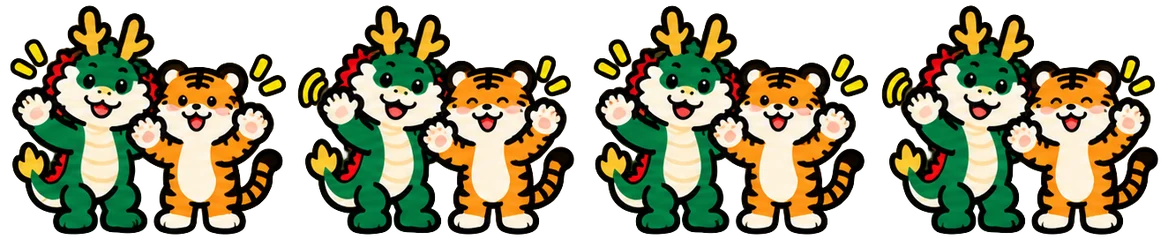
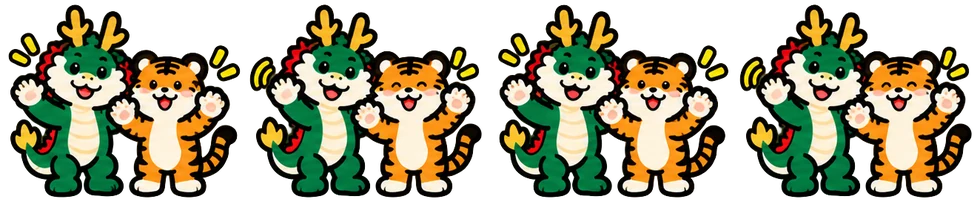
fix(v9): same mascot size and feet line in every state
The strips were each fitted to a fixed height including decorations, so
the pair shrank when a shuttlecock or Z's sat above them, and the mascot
box height changed per state, moving the date and the whole hero.

- v9-mascot-sprite.py: --body scales every strip so the dragon + tiger
  themselves are 96px tall on page; prints feet gap and body centre.
- All five strips regenerated with --body 192.
- Mascot sits in a fixed 136x100 box: feet on the bottom edge, pair
  centred; shuttlecocks / Z's / motion lines rise out of the box, under
  the header row. The hero no longer changes height between states.

Claude-Session: https://claude.ai/code/session_01Wz7TtRCPp6Frv6s2wr4fpx

diff --git a/src/components/v9/V9Mascot.tsx b/src/components/v9/V9Mascot.tsx
@@ -185,35 +185,46 @@ export function V9Mascot({ mood = "happy", size = 112 }: { mood?: V9MascotMood; 
 // made by scripts/v9-mascot-sprite.py, played with CSS steps(). The CSS/SVG
 // duo above shows until the strip has loaded; with reduced motion only the
 // first frame shows.
+//
+// Every strip is scaled so the dragon + tiger are the same height (96px) in
+// every state. The art sits in a fixed box with the pair's feet on its
+// bottom edge and the pair centred; shuttlecocks, Z's and motion lines are
+// allowed to rise out of the box. width/height/feet/centre are the
+// script's output (on-page px).
+const MASCOT_BOX = { width: 136, height: 100 };
+
 const SPRITES = {
   // 正取: high five + jump, 6 frames.
-  confirmed: { frames: 6, width: 106, height: 120, duration: 1.2 },
+  confirmed: { frames: 6, width: 149.5, height: 169, feet: 2.7, centre: 76.6, duration: 1.2 },
   // 尚未報名: beckoning wave, frames 1-2-3-2 of the sheet.
-  open: { frames: 4, width: 130, height: 104, duration: 1.2 },
+  open: { frames: 4, width: 127, height: 101, feet: 2.4, centre: 59.7, duration: 1.2 },
   // 備取: sitting with a sweat drop, blink on frame 5; the eyes barely move
   // at this size, so a slow CSS sway adds the fidgety waiting feel.
   // The number card is drawn blank so one strip serves every rank; the
   // real 備取 position is laid over it (card centre in % of the frame).
   waiting: {
     frames: 6,
-    width: 122,
-    height: 100,
+    width: 124.5,
+    height: 102.5,
+    feet: 2.1,
+    centre: 61.6,
     duration: 2.4,
     sway: true,
-    badgeAt: { x: 35.3, y: 60.8 },
+    badgeAt: { x: 34.5, y: 60.7 },
   },
-  // 已請假: asleep together, Z's float up; taller box because the Z's rise
-  // well above the heads.
-  leave: { frames: 6, width: 102, height: 132, duration: 3 },
+  // 已請假: asleep together, Z's float up.
+  leave: { frames: 6, width: 124, height: 160, feet: 2.1, centre: 62.6, duration: 3 },
   // 未登入: waving hello, frames 1-2-6-2 of the sheet (3-5 changed pose /
   // drifted sideways).
-  guest: { frames: 4, width: 127, height: 104, duration: 1.4 },
+  guest: { frames: 4, width: 122.5, height: 101, feet: 2.2, centre: 61.9, duration: 1.4 },
 } as const satisfies Record<
   string,
   {
     frames: number;
     width: number;
     height: number;
+    feet: number;
+    centre: number;
     duration: number;
     sway?: boolean;
     badgeAt?: { x: number; y: number };
@@ -250,9 +261,17 @@ export function V9MascotArt({
     };
   }, [src]);
 
-  if (!sprite || loadedSrc !== src) return <V9Mascot mood={mood} size={size} />;
+  if (!sprite || loadedSrc !== src) {
+    return (
+      <span className="v9-mascot-frame" style={MASCOT_BOX}>
+        <span className="v9-mascot-fallback">
+          <V9Mascot mood={mood} size={size} />
+        </span>
+      </span>
+    );
+  }
   const config = SPRITES[sprite];
-  const { frames, width, height, duration } = config;
+  const { frames, width, height, feet, centre, duration } = config;
   const strip = (
     <span
       key={sprite}
@@ -273,13 +292,18 @@ export function V9MascotArt({
   const sway = "sway" in config && config.sway;
   const badgeAt = "badgeAt" in config ? config.badgeAt : null;
   return (
-    <span className={`v9-sprite-box${sway ? " is-sway" : ""}`}>
-      {strip}
-      {badge && badgeAt ? (
-        <span className="v9-sprite-badge" style={{ left: `${badgeAt.x}%`, top: `${badgeAt.y}%` }}>
-          {badge}
-        </span>
-      ) : null}
+    <span className="v9-mascot-frame" style={MASCOT_BOX}>
+      <span
+        className={`v9-sprite-box${sway ? " is-sway" : ""}`}
+        style={{ left: MASCOT_BOX.width / 2 - centre, bottom: -feet }}
+      >
+        {strip}
+        {badge && badgeAt ? (
+          <span className="v9-sprite-badge" style={{ left: `${badgeAt.x}%`, top: `${badgeAt.y}%` }}>
+            {badge}
+          </span>
+        ) : null}
+      </span>
     </span>
   );
 }

diff --git a/src/components/v9/V9Styles.tsx b/src/components/v9/V9Styles.tsx
@@ -48,7 +48,7 @@ const V9_CSS = `
   background: var(--v9-yellow); border: 3px solid var(--v9-ink); opacity: .9;
 }
 .v9-hero > * { position: relative; }
-.v9-hero-top { display: flex; align-items: center; justify-content: space-between; gap: 10px; }
+.v9-hero-top { position: relative; z-index: 2; display: flex; align-items: center; justify-content: space-between; gap: 10px; }
 .v9-brand { display: flex; align-items: center; gap: 8px; min-width: 0; }
 .v9-logo { flex: none; }
 .v9-brand-name { margin: 0; font-weight: 900; font-size: 15px; line-height: 1.1; white-space: nowrap; }
@@ -80,9 +80,11 @@ const V9_CSS = `
   display: inline-flex; align-items: center; gap: 1px; padding: 1px 6px 1px 9px; border-radius: 999px;
   border: 2px solid var(--v9-ink); background: #fff; font-size: 12px; font-weight: 800;
 }
-.v9-hero-mascot { flex: none; margin: -6px -4px -8px 0; }
+.v9-hero-mascot { flex: none; position: relative; z-index: 1; margin: 0 -6px -4px 0; }
 .v9-mascot { display: block; overflow: visible; }
-.v9-sprite-box { position: relative; display: block; }
+.v9-mascot-frame { position: relative; display: block; }
+.v9-mascot-fallback { position: absolute; left: 50%; bottom: 0; transform: translateX(-50%); }
+.v9-sprite-box { position: absolute; display: block; }
 .v9-sprite-box.is-sway { transform-origin: 50% 100%; animation: v9-sway 2.2s ease-in-out infinite alternate; }
 .v9-sprite-badge {
   position: absolute; transform: translate(-50%, -50%); font-size: 11px; font-weight: 900; line-height: 1;

diff --git a/scripts/v9-mascot-sprite.py b/scripts/v9-mascot-sprite.py
@@ -2,16 +2,20 @@
 """Clean a ChatGPT mascot sheet into a V9 sprite (docs/V9_MASCOT_BRIEF.md).
 
 Usage:
-  python3 scripts/v9-mascot-sprite.py SRC.png OUT.webp [--frames 1,2,3,2] [--slots 6] [--height 240]
+  python3 scripts/v9-mascot-sprite.py SRC.png OUT.webp [--frames 1,2,3,2] [--slots 6] [--body 192]
 
 - Splits SRC into --slots equal columns; every connected shape goes to the
   slot holding its centre, so rackets / tails that cross a slot edge stay
   with their own frame and stray pieces of neighbours are dropped.
 - Drops faint haze and makes the character body fully opaque.
 - Aligns the chosen --frames (1-based, repeats allowed) on one shared
-  canvas, scales to --height px (2x of the on-page height) and writes a
-  horizontal WebP strip.
-Prints the per-frame size and frame count for V9Mascot.tsx.
+  canvas and scales it so the dragon + tiger themselves (the big shapes of
+  the first chosen frame, without shuttlecocks / Z's / motion lines) are
+  --body px tall (2x of the on-page size). Every state uses the same
+  --body, so the pair is the same size in every state; decorations keep
+  their own size and simply extend past the body.
+- Writes a horizontal WebP strip and prints the V9Mascot.tsx entry: frame
+  size, the gap below the feet and the body's centre, in on-page px.
 
 Needs: pip install pillow numpy scipy
 """
@@ -30,7 +34,7 @@ def main():
     parser.add_argument("out")
     parser.add_argument("--frames", default="1,2,3,4,5,6")
     parser.add_argument("--slots", type=int, default=6)
-    parser.add_argument("--height", type=int, default=240)
+    parser.add_argument("--body", type=int, default=192)
     args = parser.parse_args()
 
     src = np.array(Image.open(args.src).convert("RGBA")).astype(np.float32)
@@ -71,8 +75,22 @@ def main():
     x1 = max(boxes[i][2] for i in used) + pad
     y1 = max(boxes[i][3] for i in used) + pad
     canvas_w, canvas_h = int(x1 - x0 + 1), int(y1 - y0 + 1)
-    out_h = args.height
-    out_w = round(canvas_w * out_h / canvas_h)
+    # Body = the big shapes (dragon, tiger) of the first chosen frame.
+    first = order[0]
+    first_mask = frames[first].split()[3]
+    body_mask = np.array(first_mask) > 24
+    body_labels, body_count = ndimage.label(body_mask, structure=np.ones((3, 3)))
+    body_sizes = ndimage.sum(body_mask, body_labels, range(1, body_count + 1))
+    big = [i + 1 for i, size in enumerate(body_sizes) if size > 0.08 * body_sizes.sum()]
+    by, bx = np.nonzero(np.isin(body_labels, big))
+    left0 = int(round(first * slot_w + x0)) + margin
+    top0 = int(y0)
+    body_top, body_bottom = by.min() - top0, by.max() - top0
+    body_cx = (bx.min() + bx.max()) / 2 - left0
+
+    scale = args.body / (body_bottom - body_top)
+    out_h = round(canvas_h * scale)
+    out_w = round(canvas_w * scale)
 
     sheet = Image.new("RGBA", (out_w * len(order), out_h), (0, 0, 0, 0))
     for position, slot in enumerate(order):
@@ -82,9 +100,12 @@ def main():
         sheet.alpha_composite(crop.resize((out_w, out_h), Image.LANCZOS), (position * out_w, 0))
 
     sheet.save(args.out, "WEBP", quality=88, method=6)
+    feet = (canvas_h - 1 - body_bottom) * scale / 2
+    centre = body_cx * scale / 2
     print(
-        f"frame {out_w}x{out_h} (display {out_w // 2}x{out_h // 2}), "
-        f"{len(order)} frames, {os.path.getsize(args.out)} bytes"
+        f"{len(order)} frames, {os.path.getsize(args.out)} bytes -> "
+        f"{{ frames: {len(order)}, width: {out_w / 2:g}, height: {out_h / 2:g}, "
+        f"feet: {feet:.1f}, centre: {centre:.1f} }}"
     )
 
 

diff --git a/docs/V9_MASCOT_BRIEF.md b/docs/V9_MASCOT_BRIEF.md
@@ -163,5 +163,7 @@
 第二張（尚未報名）的經驗：第一版太像正取的慶祝圖而退回；重畫時要求「雙腳站穩、正面看觀眾、
 先畫基準姿勢、6 格只改手臂」後就可用。後續狀態建議沿用同樣寫法，並提醒「龍的臉照正取那張」。
 
-清理與轉檔：`python3 scripts/v9-mascot-sprite.py 原圖.png public/v9/mascot/<名稱>.webp --frames 1,2,3,4,5,6`
-（`--frames` 可挑格、可重複，例如 `1,2,3,2` 來回循環），再把輸出的尺寸填進 `V9Mascot.tsx` 的 `SPRITES`。
+清理與轉檔：`python3 scripts/v9-mascot-sprite.py 原圖.png public/v9/mascot/<名稱>.webp --frames 1,2,3,4,5,6 --body 192`
+（`--frames` 可挑格、可重複，例如 `1,2,3,2` 來回循環），再把輸出的那一行（width / height / feet / centre）填進 `V9Mascot.tsx` 的 `SPRITES`。
+`--body 192` 讓每個狀態的龍虎本體都是同樣高度（網頁上 96px），所有狀態一定要用同一個值；
+網頁把龍虎腳底對齊固定框（136×100）的底線、本體置中，羽球、Z、汗滴等裝飾可往上破框。
